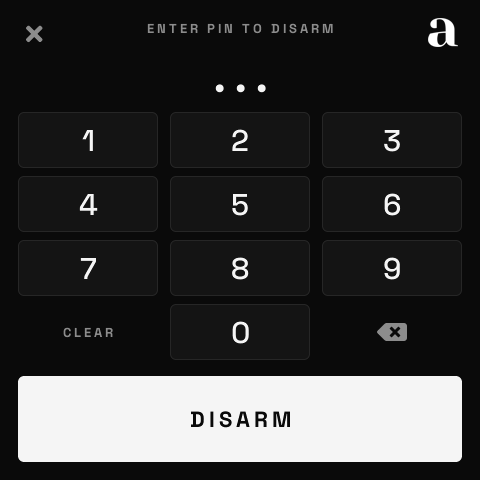
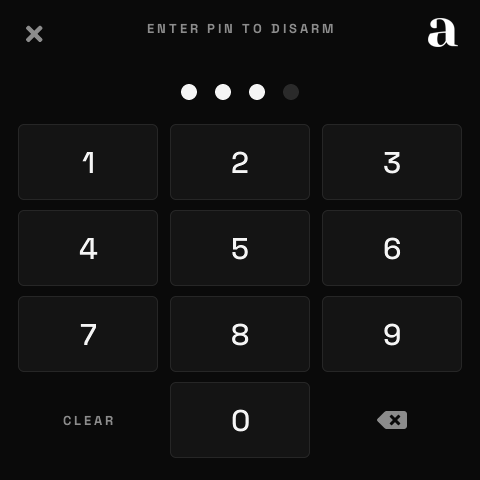
PIN pad sends as soon as the full PIN is typed (PIN Length setting); fix link status race at boot
Claude-Session: https://claude.ai/code/session_01BcbPodFwm6YfXSgSgjrsF9

diff --git a/docs/home-assistant-setup.md b/docs/home-assistant-setup.md
@@ -85,6 +85,7 @@ Entities (prefix `alarm_keypad_`, or whatever you named the device):
 | `text.*_mqtt_password` | config | Broker password (stored on the device) |
 | `text.*_alarmo_topic_prefix` | config | `alarmo` |
 | `switch.*_require_pin_to_arm` | config | Off = Home/Away arm with one tap. Also on the keypad's Settings page |
+| `number.*_pin_length` | config | Digits in your Alarmo PINs (default 4). The PIN pad sends as soon as this many are typed |
 | `number.*_screen_timeout`, `*_active_brightness`, `*_idle_brightness` | config | Screen |
 | `binary_sensor.*_mqtt_connected` | diagnostic | Keypad ↔ broker link |
 | `sensor.*_screen_status` | diagnostic | Mirror of the keypad header, e.g. `Arming Away \| Leave now - 25 s [away]`. Never contains a PIN |

diff --git a/README.md b/README.md
@@ -64,7 +64,7 @@ fixtures.
 | Action | How |
 |---|---|
 | Arm | Tap **Arm Home** or **Arm Away**. With *Require PIN to arm* on, the PIN pad opens first. |
-| Disarm / cancel arming | Tap **Disarm** (or **Cancel**), enter your PIN, tap **DISARM** |
+| Disarm / cancel arming | Tap **Disarm** (or **Cancel**) and type your PIN. It sends as soon as the last digit is in (set **PIN Length** in HA to match your Alarmo PINs). |
 | Entry delay / alarm | The PIN pad opens by itself |
 | Settings | **Tap** the gear (next to the Wi-Fi icon): brightness, screen timeout, Require PIN to arm, device info, restart, re-run setup |
 | Wake screen | Touch anywhere, or press the side button. It also wakes during arming, entry delay and alarm. |
